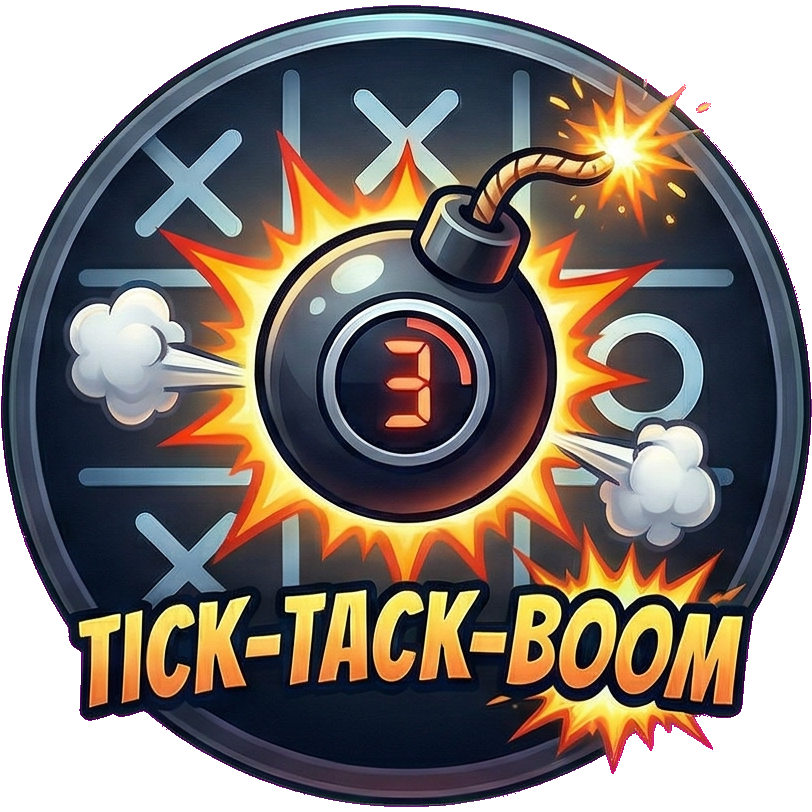
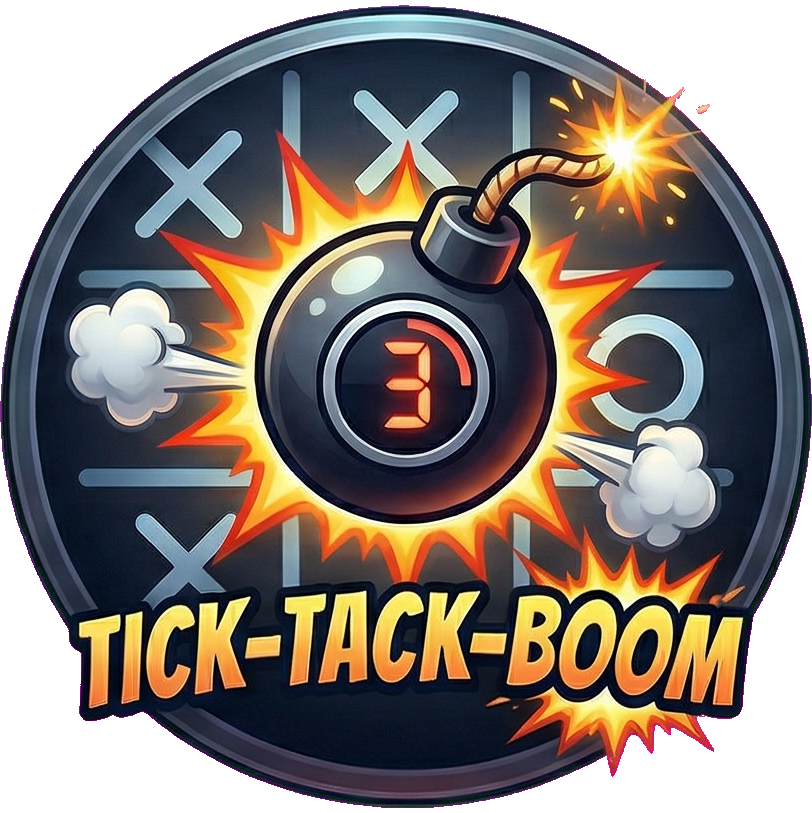
feat: add camera stream management to SetupPage component

diff --git a/src/components/SetupPage.tsx b/src/components/SetupPage.tsx
@@ -30,6 +30,7 @@ export const SetupPage: React.FC<{
     const [isCameraOpen, setIsCameraOpen] = useState(false);
     const [cameraFacing, setCameraFacing] = useState<'user' | 'environment'>('user');
     const [cameraError, setCameraError] = useState<string | null>(null);
+    const [hasCameraStream, setHasCameraStream] = useState(false);
     const videoRef = useRef<HTMLVideoElement>(null);
     const streamRef = useRef<MediaStream | null>(null);
 
@@ -84,6 +85,7 @@ export const SetupPage: React.FC<{
       }
 
       setIsCameraOpen(false);
+      setHasCameraStream(false);
       setCameraError(null);
     }, []);
 
@@ -109,9 +111,12 @@ export const SetupPage: React.FC<{
         if (videoRef.current) {
           videoRef.current.srcObject = stream;
         }
+        setHasCameraStream(true);
         setIsCameraOpen(true);
+        setCameraError(null);
       } catch (err) {
         console.error('Camera error:', err);
+        setHasCameraStream(false);
         setCameraError('Could not access camera. Please check permissions.');
       }
     };
@@ -128,6 +133,7 @@ export const SetupPage: React.FC<{
 
       streamRef.current.getTracks().forEach((track) => track.stop());
       streamRef.current = null;
+      setHasCameraStream(false);
 
       const newFacing = cameraFacing === 'user' ? 'environment' : 'user';
       setCameraFacing(newFacing);
@@ -141,8 +147,11 @@ export const SetupPage: React.FC<{
         if (videoRef.current) {
           videoRef.current.srcObject = stream;
         }
+        setHasCameraStream(true);
+        setCameraError(null);
       } catch (err) {
         console.error('Camera switch error:', err);
+        setHasCameraStream(false);
         setCameraError('Could not switch camera.');
       }
     };
@@ -426,7 +435,7 @@ export const SetupPage: React.FC<{
                         type="button"
                         onClick={toggleCameraFacing}
                         className="flex-1 bg-slate-800 hover:bg-slate-700 text-slate-300 py-3 rounded-xl transition-colors flex items-center justify-center space-x-2 disabled:opacity-50"
-                        disabled={!streamRef.current}
+                        disabled={!hasCameraStream}
                       >
                         <Camera size={18} className="rotate-180" />
                         <span className="text-sm font-bold uppercase">
@@ -437,7 +446,7 @@ export const SetupPage: React.FC<{
                         type="button"
                         onClick={capturePhoto}
                         className="flex-1 bg-red-600 hover:bg-red-700 text-white py-3 rounded-xl transition-colors flex items-center justify-center space-x-2 disabled:opacity-50"
-                        disabled={!streamRef.current}
+                        disabled={!hasCameraStream}
                       >
                         <Camera size={18} />
                         <span className="text-sm font-bold uppercase">Capture</span>